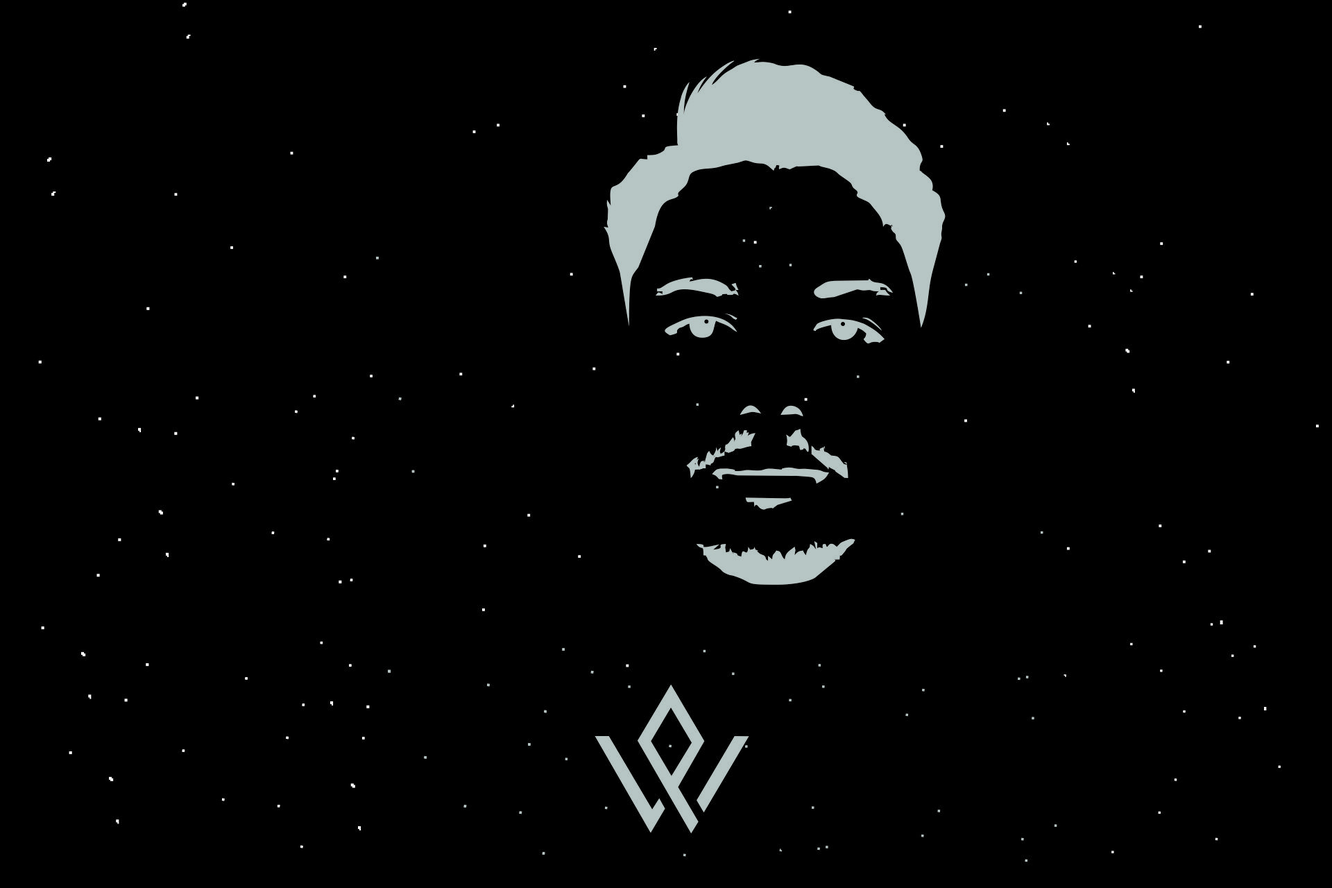
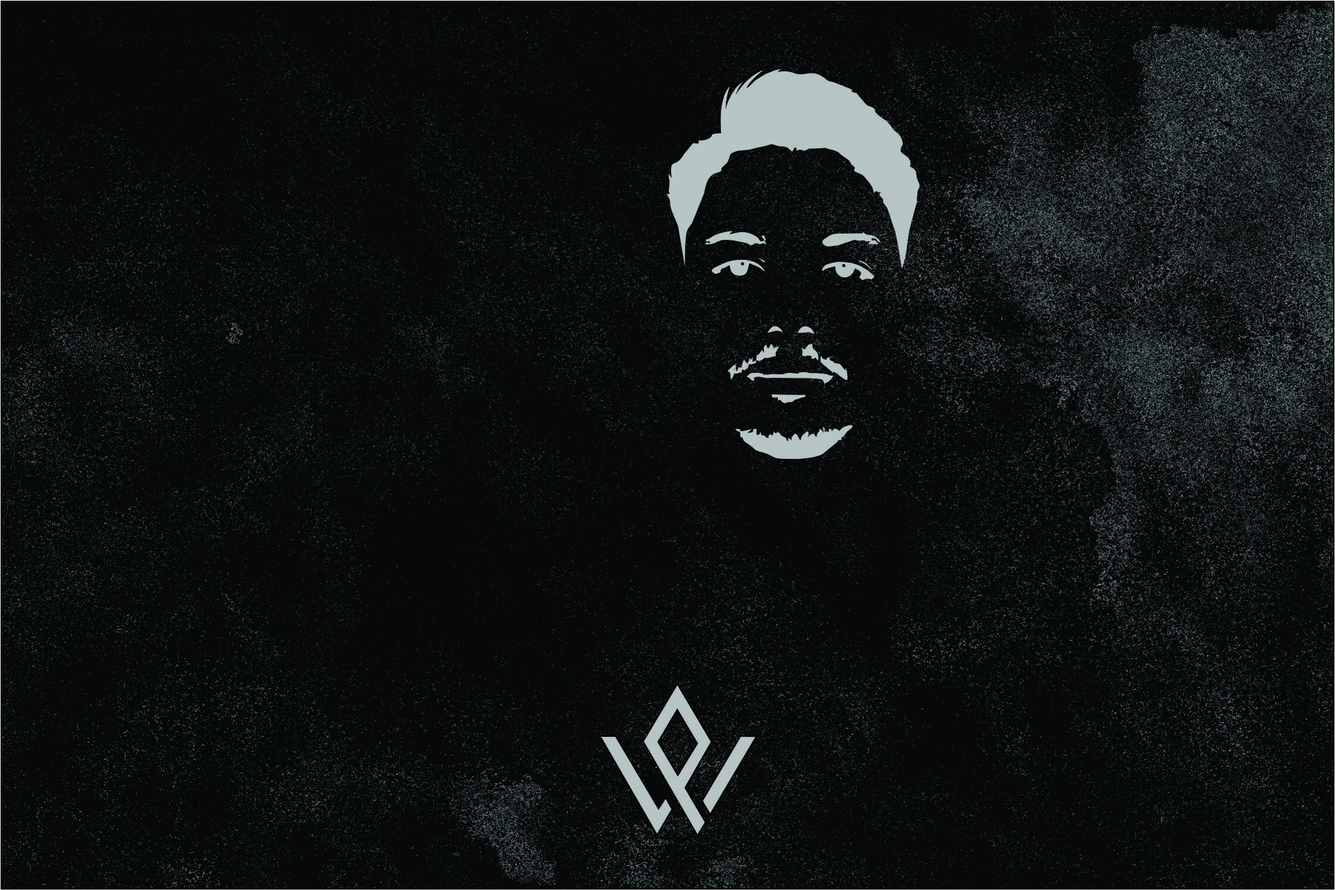
update

diff --git a/assets/css/style.css b/assets/css/style.css
@@ -242,7 +242,7 @@ h6 {
   width: 100%;
   height: 100vh;
   background: url('../img/hero-bg.jpg') top center;
-  background-size: cover;
+
 }
 
 #hero:before {
